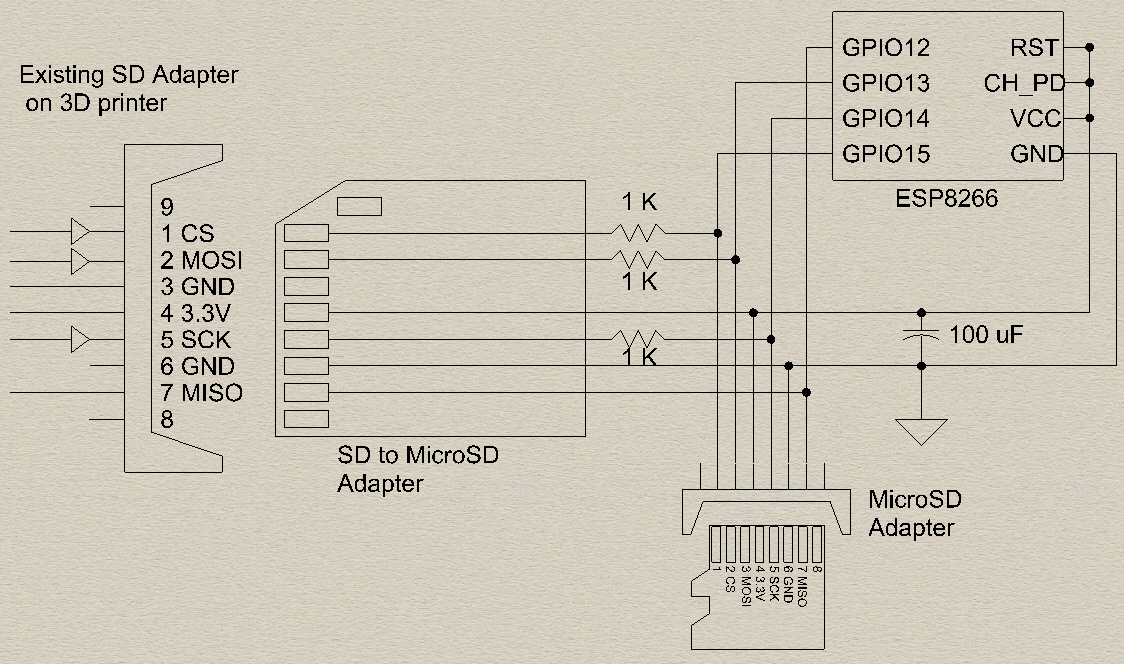
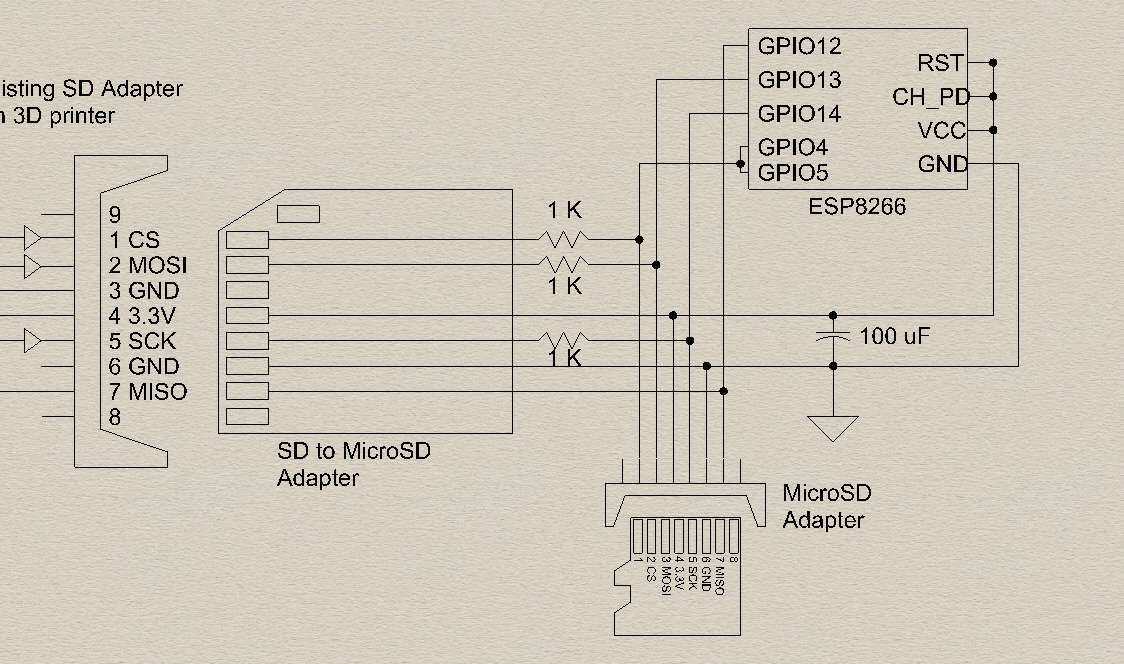
fixed typo

diff --git a/README.md b/README.md
@@ -28,7 +28,8 @@ ESP Module|SD Card
 GPIO13|MOSI   
 GPIO12|MISO   
 GPIO14|SCK    
-GPIO15|CS   
+GPIO4|CS   
+GPIO5|CS Sense   
 
 The card should be formatted for Fat16 or Fat32
 
